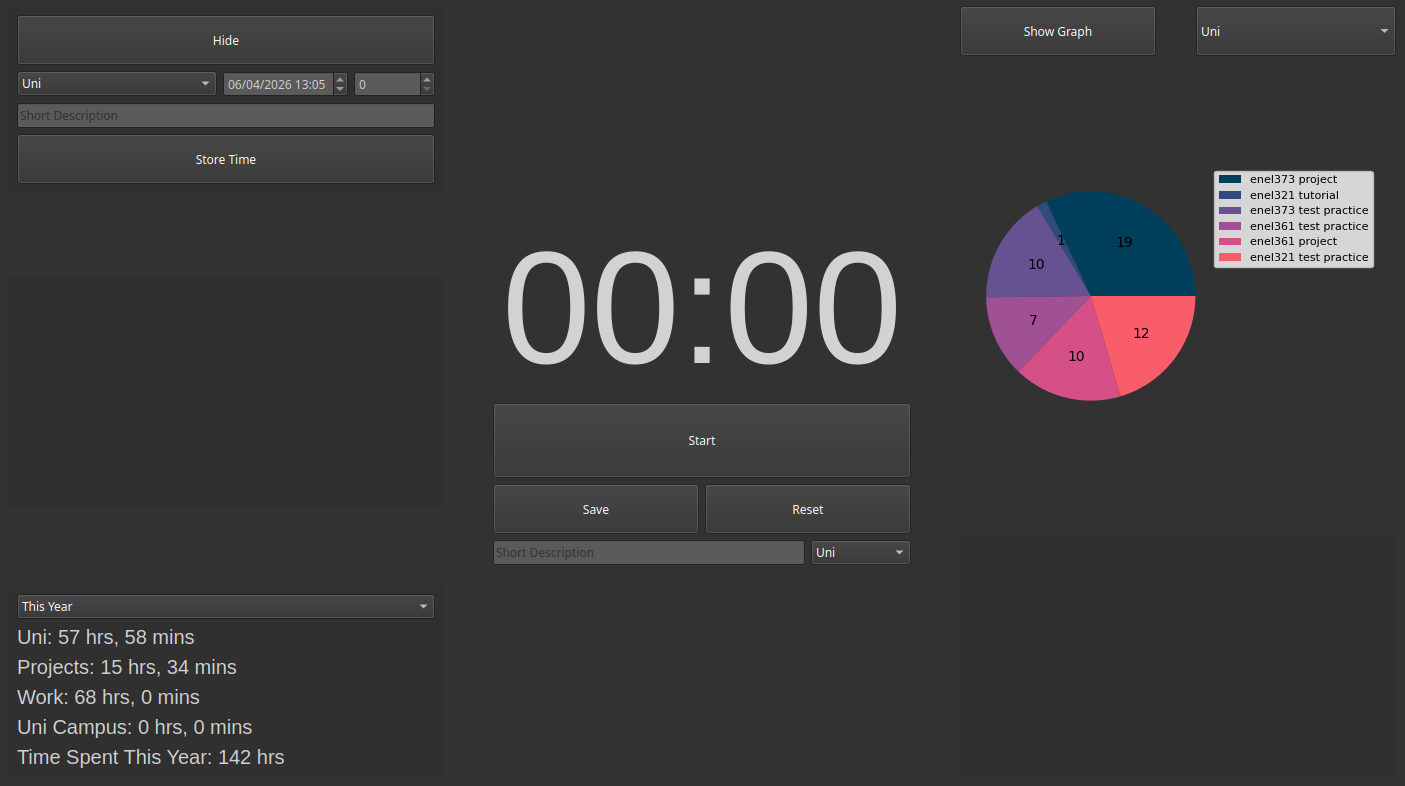
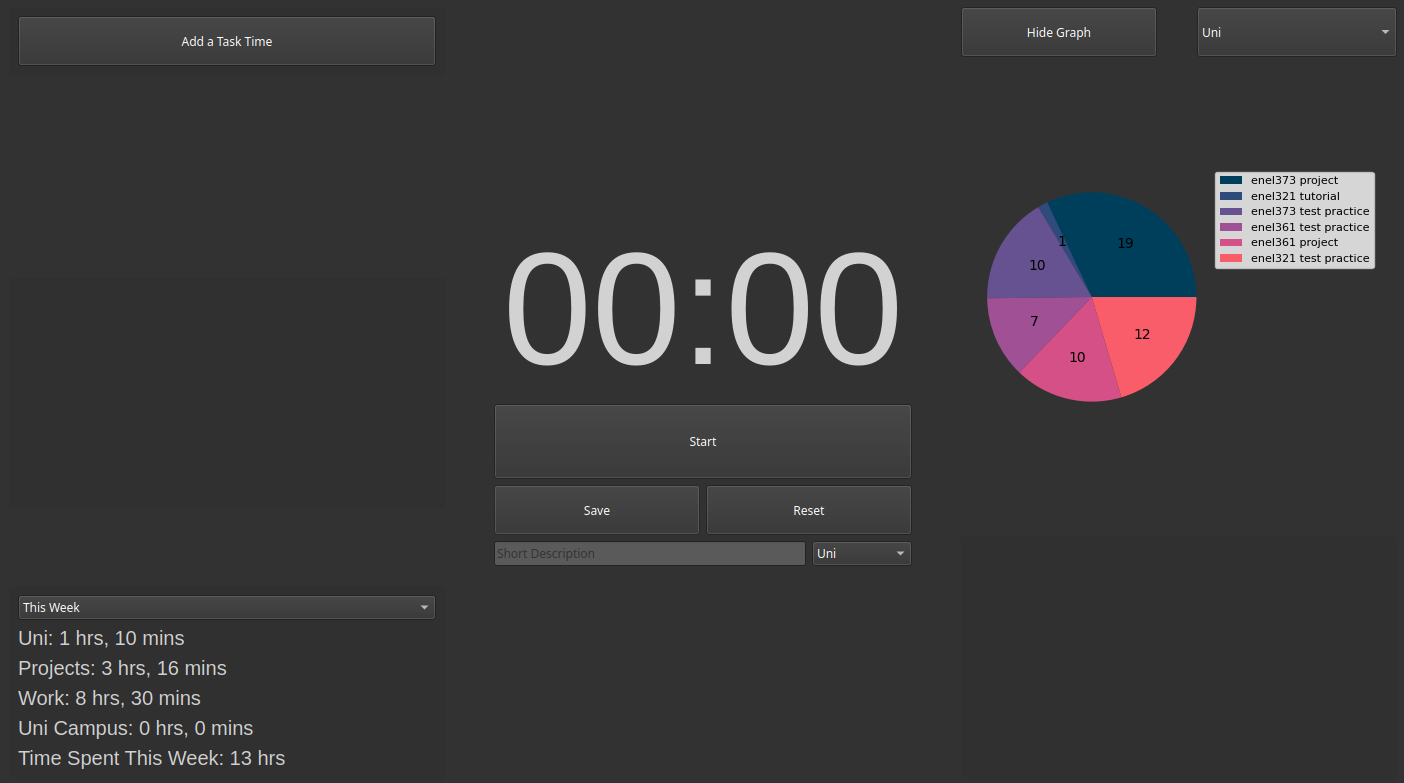
hopefully fixed statistic bugs on today and week sections

diff --git a/timer_data.py b/timer_data.py
@@ -135,6 +135,7 @@ def get_time_data(filename, delim, task, xi):
 
 def get_filter_times(times, dates, date, format="%Y"):
 	new_times = []
+	ref_dates = []
 
 	ref_format = date.strftime(format)
 
@@ -143,15 +144,16 @@ def get_filter_times(times, dates, date, format="%Y"):
 		# print(d.strftime(format), ref_format)
 		if d.strftime(format) == ref_format:
 			new_times.append(times[i])
+			ref_dates.append(dates[i])
 
-	return new_times
+	return [new_times, ref_dates]
 
 def get_week_times(times, dates):
 	ref_day = datetime.now().strftime("%a")
 	all_times = []
 	for i in range(DAYS[ref_day]):
 		sub_t = datetime.now() - timedelta(days=DAYS[ref_day]-i - 1)
-		temp_times = get_filter_times(times, dates, sub_t, "%d")
+		temp_times = get_filter_times(times, dates, sub_t, "%d")[0]
 		for time in temp_times:
 			all_times.append(time)
 
@@ -165,15 +167,18 @@ def find_statistic(task, t_type):
 	if DATA_TYPE[t_type] == DATA_TYPE["TOTAL"]:
 		if t_type == "TOTAL_M":
 			dates = get_time_data(TIMER_FILE, DELIM, task, DATA_TYPE["DATE"])
-			data = get_filter_times(data, dates, datetime.now(), "%m")
+			data = get_filter_times(data, dates, datetime.now(), "%m")[0]
 
 		elif t_type == "TOTAL_W":
 			dates = get_time_data(TIMER_FILE, DELIM, task, DATA_TYPE["DATE"])
-			data = get_week_times(data, dates)
+			data = get_filter_times(data, dates, datetime.now(), "%m")
+			data = get_week_times(data[0], data[1])
 
 		elif t_type == "TOTAL_D":
 			dates = get_time_data(TIMER_FILE, DELIM, task, DATA_TYPE["DATE"])
-			data = get_filter_times(data, dates, datetime.now(), "%d")
+			data = get_filter_times(data, dates, datetime.now(), "%m")
+			data = get_filter_times(data[0], data[1], datetime.now(), "%d")[0]
+
 
 		total_spent = 0
 		for time in data:

diff --git a/main.py b/main.py
@@ -249,6 +249,11 @@ class MainWindow(QMainWindow):
 		self.canvas.setVisible(not self.canvas.isVisible())
 		self.canvas.statistic_pie_chart(self.taskpick.currentText(), "NOTE")
 
+		if self.canvas.isVisible():
+			self.show_graph.setText("Hide Graph")
+		else:
+			self.show_graph.setText("Show Graph")
+
 
 
 
